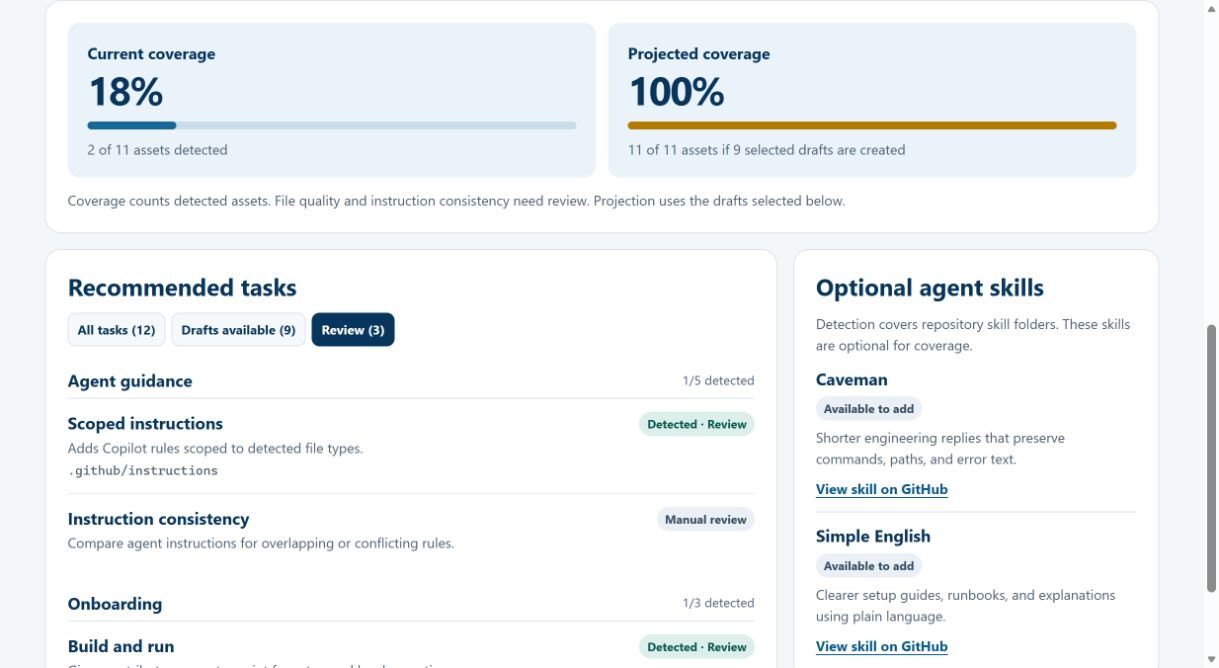
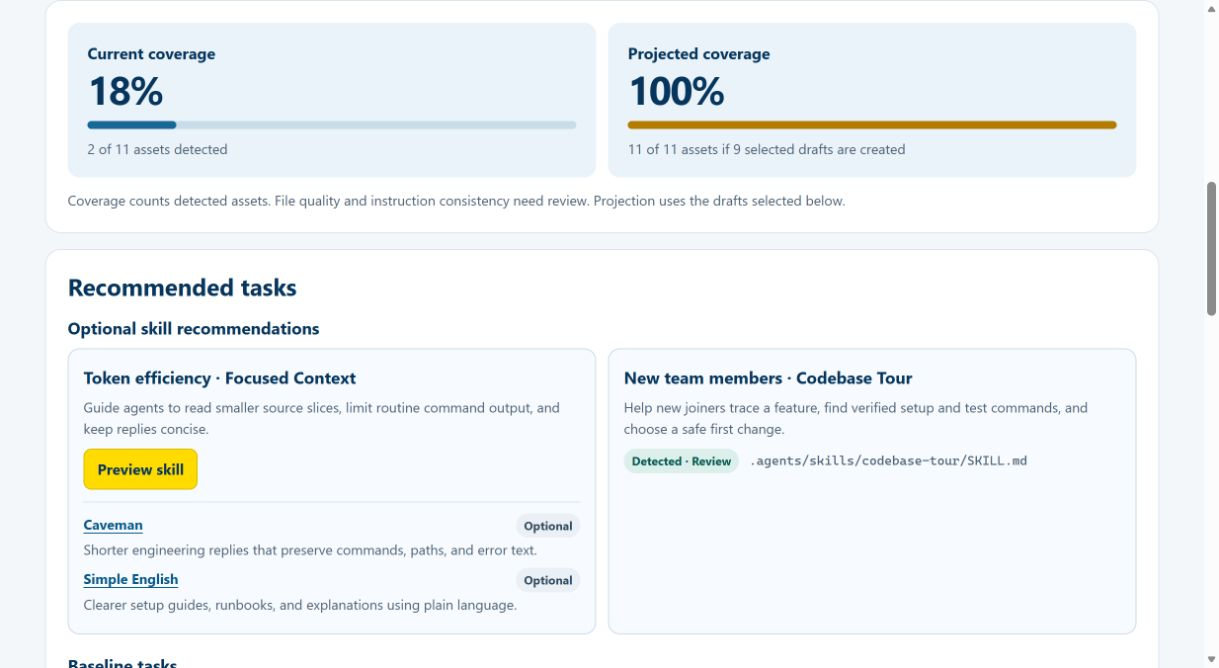
Improve assessment navigation and recommend onboarding skills

diff --git a/web/index.html b/web/index.html
@@ -43,8 +43,16 @@ progress::-webkit-progress-value{background:var(--blue);border-radius:10px}
 .projected progress::-webkit-progress-value{background:#b37c00}
 .projected progress{accent-color:#b37c00}
 .note{margin-top:12px}
-.dashboard{display:grid;grid-template-columns:minmax(0,2fr) minmax(260px,1fr);gap:16px;align-items:start;margin-top:16px}
-.side{min-width:0}
+.task-panel{margin-top:16px}.recommendations{margin:16px 0 20px}
+.recommendation-grid{display:grid;grid-template-columns:repeat(2,minmax(0,1fr));gap:12px;margin-top:10px}
+.recommendation{padding:15px;border:1px solid #cadbe8;background:#f7fbff;border-radius:12px;min-width:0}
+.recommendation h4{margin:0;color:var(--navy);font-size:17px}
+.recommendation p{margin:6px 0;color:var(--muted);font-size:14px}
+.recommendation .line{margin-top:10px}
+.related-skills{margin-top:12px;border-top:1px solid var(--line);padding-top:7px}
+.related-skill{display:grid;grid-template-columns:minmax(0,1fr) auto;gap:1px 8px;padding:4px 0}
+.related-skill p{grid-column:1/-1;margin:0}
+.related-skill a{font-weight:700;width:fit-content;font-size:14px}
 .filters{display:flex;gap:6px;flex-wrap:wrap;margin:12px 0}
 .filters button{background:#f6f9fc;border-color:var(--line);font-size:13px;padding:6px 9px}
 .filters button[aria-pressed=true]{background:var(--navy);border-color:var(--navy);color:white}
@@ -61,17 +69,17 @@ progress::-webkit-progress-value{background:var(--blue);border-radius:10px}
 .tag.present{background:#dcefeb;color:var(--safe)}
 .estimate{display:flex;align-items:center;gap:6px;margin-top:7px;font-size:13px;color:var(--muted);width:fit-content}
 input[type=checkbox]{accent-color:var(--blue);width:15px;height:15px;margin:0}
-.skill{padding:12px 0;border-bottom:1px solid var(--line)}
-.skill:last-child{border:0;padding-bottom:0}
-.skill h3{margin-bottom:5px}
-.skill p{margin:6px 0}
-.skill a{font-size:14px;font-weight:650}
 .repo-sources{margin:0 0 15px;padding:0;display:grid;grid-template-columns:repeat(auto-fit,minmax(160px,1fr));gap:8px;list-style:none}
 .repo-sources li{display:flex;justify-content:space-between;align-items:baseline;gap:6px;background:#f1f5f9;padding:8px 10px;border-radius:8px;font-size:13px;color:var(--muted)}
 .repo-sources li:first-child{background:#eaf3fa;color:var(--navy)}
 .repo-sources span{font-size:12px;white-space:nowrap}
-.section-links{display:flex;flex-wrap:wrap;gap:5px 18px;margin:0 0 12px;font-size:14px}
-.section-links a{font-weight:650}
+.section-links{display:grid;grid-template-columns:repeat(3,minmax(0,1fr));gap:8px;margin:0 0 14px;padding:7px;background:var(--navy);border-radius:13px}
+.section-links a{display:flex;justify-content:space-between;align-items:center;gap:8px;padding:9px 12px;background:#164a73;color:white;text-decoration:none;border:1px solid #477799;border-radius:8px;line-height:1.3}
+.section-links a:hover{background:#245d89;border-color:var(--yellow)}
+.section-links a:focus-visible{outline-color:var(--yellow);outline-offset:2px}
+.section-links strong{display:block;font-size:15px}
+.section-links small{display:block;margin-top:2px;font-size:12px;color:#e4eef6}
+.section-links a > span:last-child{color:var(--yellow);font-size:20px;font-weight:750}
 #profile{margin-bottom:14px}
 .profile-tables{display:grid;grid-template-columns:repeat(auto-fit,minmax(min(100%,300px),1fr));gap:8px 18px}
 #profile-details{margin-top:10px}
@@ -89,8 +97,8 @@ dialog::backdrop{background:#122c46a8}
 dialog .line{justify-content:flex-end;margin-top:14px}
 pre{white-space:pre-wrap;overflow-wrap:anywhere;background:var(--canvas);border-radius:8px;padding:12px;max-height:45vh;overflow:auto;font-size:14px}
 footer{text-align:center;color:var(--muted);font-size:14px;margin:24px}
-@media(max-width:820px){.dashboard{grid-template-columns:1fr}}
-@media(max-width:560px){main{margin-top:25px;padding:0 12px}.panel{padding:14px}.overview{grid-template-columns:1fr}.task{grid-template-columns:1fr}.task-actions{display:flex;align-items:center}.score strong{font-size:33px}#scan-form button{width:100%}}
+@media(max-width:720px){.section-links small{display:none}.recommendation-grid{grid-template-columns:1fr}}
+@media(max-width:560px){main{margin-top:25px;padding:0 12px}.panel{padding:14px}.overview,.section-links{grid-template-columns:1fr}.section-links a{padding:7px 10px}.task{grid-template-columns:1fr}.task-actions{display:flex;align-items:center}.score strong{font-size:33px}#scan-form button{width:100%}}
 </style>
 </head>
 <body>
@@ -118,11 +126,10 @@ footer{text-align:center;color:var(--muted);font-size:14px;margin:24px}
       <h2 id="assessment-title" tabindex="-1">Assessment</h2>
       <p id="root" class="path"></p>
     </div>
-    <nav class="section-links" aria-label="Assessment sections">
-      <a href="#profile">Project</a>
-      <a href="#coverage">Coverage</a>
-      <a href="#tasks-title">Tasks</a>
-      <a href="#skills-title">Skills</a>
+    <nav id="assessment-nav" class="section-links" aria-label="Assessment sections">
+      <a href="#profile"><span><strong>Project summary</strong><small>Stack and source inventory</small></span><span aria-hidden="true">↓</span></a>
+      <a href="#coverage"><span><strong>Coverage</strong><small>Current and projected assets</small></span><span aria-hidden="true">↓</span></a>
+      <a href="#tasks-title"><span><strong>Recommended tasks</strong><small>Draft files and add skills</small></span><span aria-hidden="true">↓</span></a>
     </nav>
     <section id="profile" class="panel" aria-labelledby="profile-title">
       <h2 id="profile-title">Project summary</h2>
@@ -154,20 +161,16 @@ footer{text-align:center;color:var(--muted);font-size:14px;margin:24px}
       </div>
       <p class="note">Coverage counts detected assets. File quality and instruction consistency need review. Projection uses the drafts selected below.</p>
     </div>
-    <div class="dashboard">
-      <section class="panel" aria-labelledby="tasks-title">
-        <h2 id="tasks-title" tabindex="-1">Recommended tasks</h2>
-        <div id="filters" class="filters" role="group" aria-label="Filter tasks"></div>
-        <div id="checks"></div>
+    <section class="panel task-panel" aria-labelledby="tasks-title">
+      <h2 id="tasks-title" tabindex="-1">Recommended tasks</h2>
+      <section class="recommendations" aria-labelledby="recommendations-title">
+        <h3 id="recommendations-title" tabindex="-1">Optional skill recommendations</h3>
+        <div id="recommendations" class="recommendation-grid"></div>
       </section>
-      <aside class="side" aria-label="Project details and skills">
-        <section class="panel" aria-labelledby="skills-title">
-          <h2 id="skills-title">Optional agent skills</h2>
-          <p class="note">Detection covers repository skill folders. These skills are optional for coverage.</p>
-          <div id="skills"></div>
-        </section>
-      </aside>
-    </div>
+      <h3>Baseline tasks</h3>
+      <div id="filters" class="filters" role="group" aria-label="Filter baseline tasks"></div>
+      <div id="checks"></div>
+    </section>
   </section>
 </main>
 <footer>Local-first · Review each draft before writing</footer>
@@ -217,7 +220,7 @@ function el(tag, text, className) {
 }
 
 function coverage(checks, projected = false) {
-  const assets = checks.filter(check => check.path);
+  const assets = checks.filter(check => check.path && !check.optional);
   const count = assets.filter(check => check.status === 'Review' ||
     (projected && check.canCreate && included.has(check.id))).length;
   return { count, total: assets.length, percent: assets.length ? Math.round(100 * count / assets.length) : 0 };
@@ -236,21 +239,38 @@ function renderCoverage() {
     (projected.count - current.count) + ' selected drafts are created';
 }
 
-function renderSkills(skills) {
-  $('skills').replaceChildren(...skillCatalog.map(skill => {
-    const observed = skills.find(result => result.id === skill.id);
-    const paths = observed?.paths ?? [];
-    const card = el('article', '', 'skill');
-    const link = el('a', 'View skill on GitHub');
-    link.href = 'https://github.com/fenildesai/ai-repo-onboard/tree/main/skills/' + skill.id;
-    link.target = '_blank';
-    link.rel = 'noopener noreferrer';
-    link.setAttribute('aria-label', 'View ' + skill.name + ' on GitHub');
-    card.append(el('h3', skill.name),
-      el('span', paths.length ? 'Detected in repository' : 'Available to add', 'tag' + (paths.length ? ' present' : '')),
-      el('p', skill.description));
-    if (paths.length) card.append(el('p', paths.join(', '), 'path'));
-    card.append(link);
+function draftButton(check) {
+  const label = check.optional ? 'Preview skill' : 'Preview draft';
+  const button = el('button', label, 'primary');
+  button.id = 'draft-' + check.id;
+  button.setAttribute('aria-label', label + ' for ' + check.name);
+  button.addEventListener('click', () => openDraft(check));
+  return button;
+}
+
+function renderRecommendations(result) {
+  $('recommendations').replaceChildren(...result.checks.filter(check => check.optional).map(check => {
+    const card = el('article', '', 'recommendation');
+    const actions = el('div', '', 'line');
+    if (check.canCreate) actions.append(draftButton(check));
+    else actions.append(el('span', 'Detected · Review', 'tag present'), el('span', check.path, 'path'));
+    card.append(el('h4', check.group + ' · ' + check.name), el('p', check.description), actions);
+
+    if (check.id === 12) {
+      const related = el('div', '', 'related-skills');
+      for (const skill of skillCatalog) {
+        const observed = result.skills.some(item => item.id === skill.id && item.paths.length);
+        const row = el('div', '', 'related-skill');
+        const link = el('a', skill.name);
+        link.href = 'https://github.com/fenildesai/ai-repo-onboard/tree/main/skills/' + skill.id;
+        link.target = '_blank';
+        link.rel = 'noopener noreferrer';
+        row.append(link, el('span', observed ? 'Detected' : 'Optional', 'tag' + (observed ? ' present' : '')),
+          el('p', skill.description));
+        related.append(row);
+      }
+      card.append(related);
+    }
     return card;
   }));
 }
@@ -322,20 +342,16 @@ function renderTask(check) {
     const estimate = el('label', '', 'estimate');
     estimate.append(include, 'Include in projection');
     info.append(estimate);
-    const button = el('button', 'Preview draft');
-    button.id = 'draft-' + check.id;
-    button.className = 'primary';
-    button.setAttribute('aria-label', 'Preview draft for ' + check.name);
-    button.addEventListener('click', () => openDraft(check));
-    actions.append(button);
+    actions.append(draftButton(check));
   }
   task.append(info, actions);
   return task;
 }
 
 function renderTasks() {
+  const baseline = assessment.checks.filter(check => !check.optional);
   $('filters').replaceChildren(...filters.map(([id, label, matches]) => {
-    const button = el('button', label + ' (' + assessment.checks.filter(matches).length + ')');
+    const button = el('button', label + ' (' + baseline.filter(matches).length + ')');
     button.id = 'filter-' + id;
     button.setAttribute('aria-pressed', String(activeFilter === id));
     button.addEventListener('click', () => {
@@ -347,7 +363,7 @@ function renderTasks() {
   }));
   const match = filters.find(([id]) => id === activeFilter)[2];
   const groups = new Map();
-  for (const check of assessment.checks) {
+  for (const check of baseline) {
     if (!groups.has(check.group)) groups.set(check.group, []);
     groups.get(check.group).push(check);
   }
@@ -372,7 +388,7 @@ function render(result) {
   $('root').textContent = result.root;
   renderCoverage();
   renderTasks();
-  renderSkills(result.skills);
+  renderRecommendations(result);
   renderProfile(result.profile);
 }
 
@@ -384,12 +400,15 @@ async function openDraft(check) {
   trigger.disabled = true;
   try {
     const draft = await api('/draft', { id: check.id });
-    activeDraft = { id: check.id, path: draft.path, root: assessment.root };
+    activeDraft = { id: check.id, path: draft.path, root: assessment.root, optional: check.optional };
     const { count, total } = coverage(assessment.checks);
     $('preview-title').textContent = 'Review draft for ' + check.name;
     $('file').textContent = draft.path;
-    $('impact').textContent = check.description + ' Creating this file would bring current coverage to ' +
-      Math.round(100 * (count + 1) / total) + '%.';
+    const addsBaselineAsset = !check.optional || assessment.checks.some(item => item.id === 4 && item.status === 'Missing');
+    const effect = addsBaselineAsset
+      ? ' Creating this file would bring current coverage to ' + Math.round(100 * (count + 1) / total) + '%.'
+      : ' This optional skill adds guidance without adding a separate coverage point.';
+    $('impact').textContent = check.description + effect;
     $('content').textContent = draft.content;
     $('draft-error').textContent = '';
     trigger.disabled = false;
@@ -412,7 +431,7 @@ $('scan-form').addEventListener('submit', async event => {
   try {
     const result = await api('/scan', { path: $('path').value });
     activeFilter = 'all';
-    included = new Set(result.checks.filter(check => check.canCreate).map(check => check.id));
+    included = new Set(result.checks.filter(check => check.canCreate && !check.optional).map(check => check.id));
     render(result);
     $('assessment-title').focus();
   } catch (error) {
@@ -439,7 +458,7 @@ $('approve').addEventListener('click', async () => {
     included.delete(activeDraft.id);
     $('review').close();
     render(result);
-    $('tasks-title').focus();
+    $(activeDraft.optional ? 'recommendations-title' : 'tasks-title').focus();
   } catch (error) {
     $('draft-error').textContent = error.message;
   } finally {

diff --git a/README.md b/README.md
@@ -38,9 +38,9 @@ Paste the printed path into **Local repository path** and select **Assess reposi
 
 **Current coverage** counts detected baseline assets. **Projected coverage** estimates how many assets would be present if you created the selected drafts. Toggle **Include in projection** to compare options. File quality and instruction consistency require manual review. Optional skills do not add separate points to coverage.
 
-The **Project summary** appears above coverage. It shows key technologies and source totals immediately. Expand **Project, framework and language details** for the complete inventory, or use the section links to jump to coverage, tasks, or skills. A clean SampleCatalog copy has four `net10.0` projects, including one unit-test project, and seven source files across C#, Razor, and CSS.
+The **Project summary** appears above coverage. It shows key technologies and source totals immediately. Expand **Project, framework and language details** for the complete inventory, or use the prominent navigation above it to jump to the summary, coverage, or recommended tasks. A clean SampleCatalog copy has four `net10.0` projects, including one unit-test project, and seven source files across C#, Razor, and CSS.
 
-![SampleCatalog highlights above current and projected coverage](docs/screenshots/02-project-summary.jpg)
+![Assessment navigation, project highlights, and current and projected coverage](docs/screenshots/02-project-summary.jpg)
 
 The scanner counts non-blank source lines, including comments, in tracked and unignored files. It excludes common build, dependency, and generated files. Repository file totals increase when you create an unignored guidance file.
 
@@ -52,15 +52,15 @@ The scanner counts non-blank source lines, including comments, in tracked and un
 | **Detected · Review** | The expected evidence exists. Review its content before treating the check as complete. |
 | **Manual review** | The check needs human judgment, such as checking for inconsistent instructions. |
 
-![Recommended tasks filtered to assets with available drafts](docs/screenshots/03-checklist.jpg)
+![Recommended tasks with token efficiency and new-team-member skill recommendations](docs/screenshots/03-checklist.jpg)
 
 ## 4. Preview, approve, and verify a draft
 
-In the sample, find **Scoped instructions** and select **Preview draft**. Check that the file patterns match the project languages.
+In the sample, find **New team members · Codebase Tour** and select **Preview skill**. Check that the suggested tour uses the detected solution and projects.
 
-![Scoped instructions preview showing C#, Razor and CSS file patterns](docs/screenshots/04-preview.jpg)
+![Codebase Tour skill preview with a repository-specific onboarding walkthrough](docs/screenshots/04-preview.jpg)
 
-Select **Approve & create** to write `.github/instructions/source.instructions.md`. The report recalculates coverage and shows **Detected · Review** for the new file. Open the file in your sample folder to inspect it, or run `git -C ..\SampleCatalog-Demo status --short` from the toolkit root. Drafts have guidance specific to each check. The toolkit writes a draft only after approval and does not commit or push it.
+Select **Approve & create** to write `.agents/skills/codebase-tour/SKILL.md`. The recommendation shows **Detected · Review**. If this is the first repository skill, it also satisfies the existing **Agent skills** baseline check. Open the file in your sample folder to inspect it, or run `git -C ..\SampleCatalog-Demo status --short` from the toolkit root. Drafts have guidance specific to each check. The toolkit writes a draft only after approval and does not commit or push it.
 
 ![Current coverage rises to 18 percent after approval, with 100 percent projected asset coverage](docs/screenshots/05-after-create.jpg)
 
@@ -93,7 +93,7 @@ Open [SampleCatalog](http://localhost:51874) and search for `pen`. You can also 
 
 The **AGENTS.md** and **Copilot instructions** drafts include detected project context, working conventions, and validation guidance. Java drafts list detected Maven and Gradle build files and infer root build commands from the available wrapper. Review the required JDK and CI settings before running those commands. See [how we draft repository instructions](docs/instruction-design.md).
 
-The [skills catalog](skills) includes [Caveman](skills/caveman) for terse engineering replies and [Simple English](skills/simple-english) for readable documentation. The assessment lists both under **Optional agent skills** and shows whether their skill files were detected in the scanned repository. Copy the skill folder to a supported client skill location to use it there. Use either style when it fits the task.
+The [skills catalog](skills) includes [Caveman](skills/caveman) for terse engineering replies and [Simple English](skills/simple-english) for readable documentation. The assessment lists both under **Recommended tasks → Token efficiency** and shows whether their skill files were detected. **Focused Context** adds a workflow for targeted reads, smaller command output, and concise handoffs. **Codebase Tour** helps new joiners trace a feature, find verified setup and test commands, and choose a safe first exercise. Preview and approve these two skills from the assessment. Copy the skill folder to a supported client skill location to use it there. Use either style when it fits the task.
 
 ## Assess the content with Copilot or Codex
 
